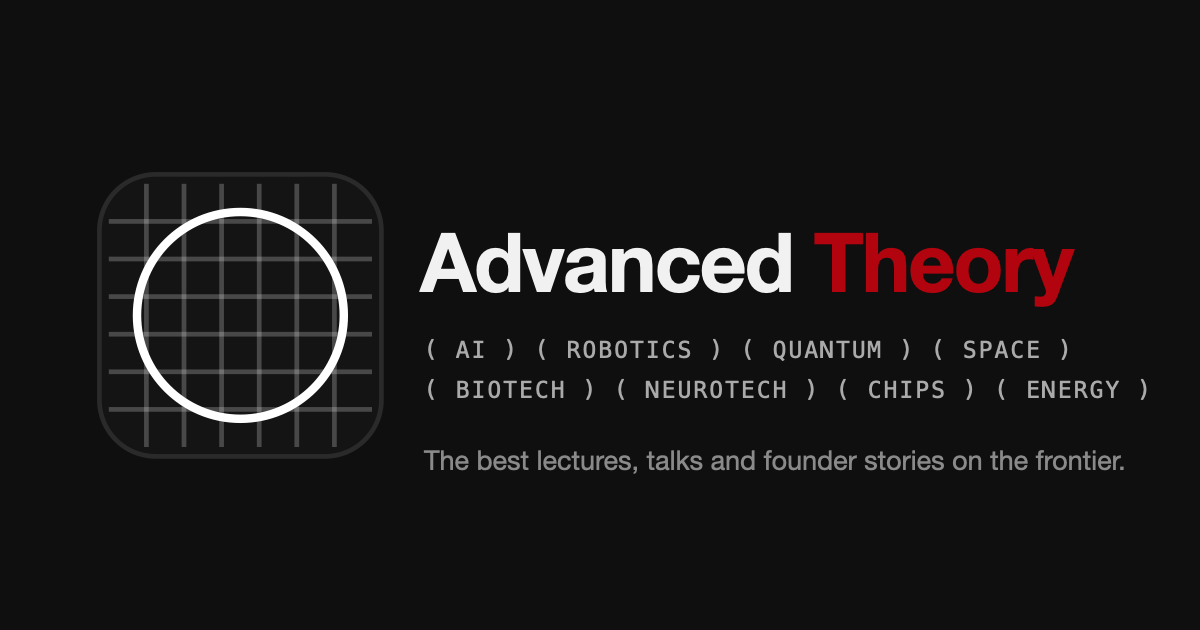
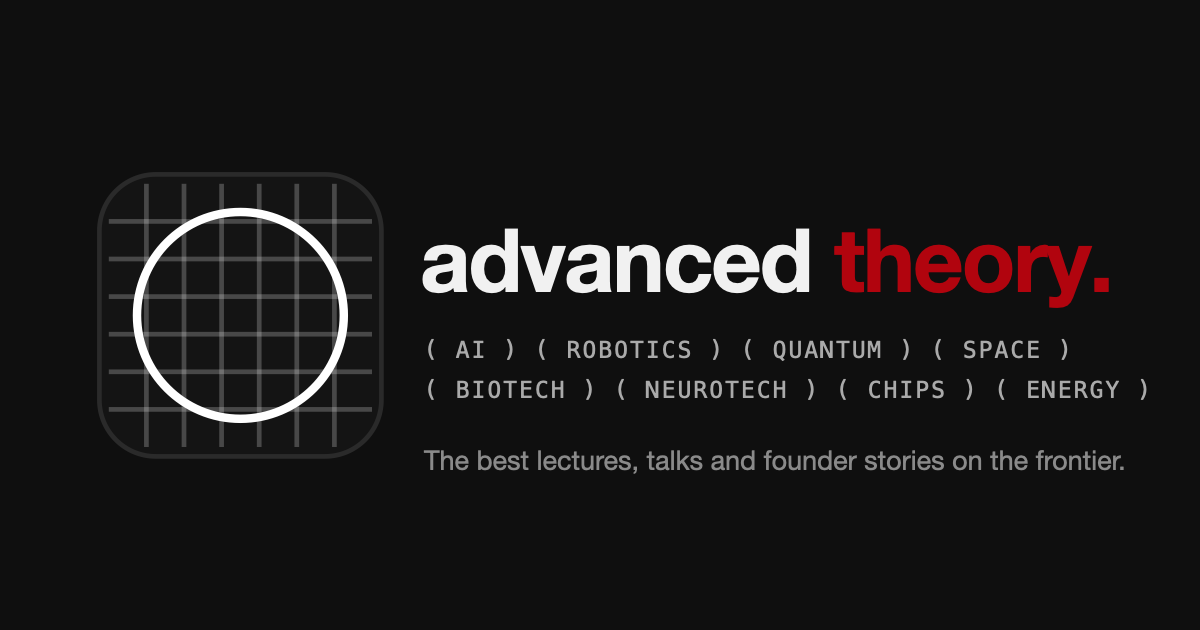
Lowercase wordmark with a trailing dot

Changed region(s): [[0.3392, 0.3619, 0.925, 0.5127]]

diff --git a/js/app.js b/js/app.js
@@ -460,7 +460,7 @@
       <div class="tv-player"><div id="tv-player"></div></div>
       <div class="tv-overlay">
         <div class="tv-top">
-          <a class="tv-brand" href="#/" title="Back to the home page"><svg viewBox="0 0 32 32" width="28" height="28" aria-hidden="true"><rect x="1" y="1" width="30" height="30" rx="6" fill="#141414" stroke="#2a2a2a"/><g stroke="#ffffff" stroke-opacity=".22" stroke-width=".8" fill="none"><path d="M6 2v28" /><path d="M10 2v28" /><path d="M14 2v28" /><path d="M18 2v28" /><path d="M22 2v28" /><path d="M26 2v28" /><path d="M2 6h28" /><path d="M2 10h28" /><path d="M2 14h28" /><path d="M2 18h28" /><path d="M2 22h28" /><path d="M2 26h28" /></g><g stroke="#ffffff" stroke-width="1.1" fill="none" stroke-linecap="round"><circle cx="16" cy="16" r="11"/></g></svg> Advanced Theory</a>
+          <a class="tv-brand" href="#/" title="Back to the home page"><svg viewBox="0 0 32 32" width="28" height="28" aria-hidden="true"><rect x="1" y="1" width="30" height="30" rx="6" fill="#141414" stroke="#2a2a2a"/><g stroke="#ffffff" stroke-opacity=".22" stroke-width=".8" fill="none"><path d="M6 2v28" /><path d="M10 2v28" /><path d="M14 2v28" /><path d="M18 2v28" /><path d="M22 2v28" /><path d="M26 2v28" /><path d="M2 6h28" /><path d="M2 10h28" /><path d="M2 14h28" /><path d="M2 18h28" /><path d="M2 22h28" /><path d="M2 26h28" /></g><g stroke="#ffffff" stroke-width="1.1" fill="none" stroke-linecap="round"><circle cx="16" cy="16" r="11"/></g></svg> advanced <span class="brand-tv">theory.</span></a>
           <div class="tv-pl">${chip('all', 'Everything', DATA.videos.length)}${DATA.directions.map((d) => chip(d.slug, d.label, d.count)).join('')}</div>
           <button class="tv-btn" data-tv="exit" title="Exit TV mode (Esc)">${svg('M19 6.4L17.6 5 12 10.6 6.4 5 5 6.4l5.6 5.6L5 17.6 6.4 19l5.6-5.6 5.6 5.6 1.4-1.4-5.6-5.6z', 20)}</button>
         </div>

diff --git a/index.html b/index.html
@@ -66,7 +66,7 @@
     </button>
     <a class="brand" href="#/" aria-label="Advanced Theory home">
       <span class="brand-mark"><svg viewBox="0 0 32 32" width="30" height="30" aria-hidden="true"><rect x="1" y="1" width="30" height="30" rx="6" fill="#141414" stroke="#2a2a2a"/><g stroke="#ffffff" stroke-opacity=".22" stroke-width=".8" fill="none"><path d="M6 2v28" /><path d="M10 2v28" /><path d="M14 2v28" /><path d="M18 2v28" /><path d="M22 2v28" /><path d="M26 2v28" /><path d="M2 6h28" /><path d="M2 10h28" /><path d="M2 14h28" /><path d="M2 18h28" /><path d="M2 22h28" /><path d="M2 26h28" /></g><g stroke="#ffffff" stroke-width="1.1" fill="none" stroke-linecap="round"><circle cx="16" cy="16" r="11"/></g></svg></span>
-      <span class="brand-text">Advanced <span class="brand-tv">Theory</span></span>
+      <span class="brand-text">advanced <span class="brand-tv">theory.</span></span>
     </a>
   </div>
   <form class="search" id="search-form" role="search">

diff --git a/css/styles.css b/css/styles.css
@@ -287,6 +287,7 @@ body.tv-on .topbar, body.tv-on .layout { display: none; }
 .tv .tv-btn:hover, .tv .tv-btn:focus-visible { background: rgba(255,255,255,.28); outline: none; }
 .tv .tv-btn.primary { background: #fff; color: #000; }
 .tv .tv-brand { font-weight: 700; font-size: 18px; display: flex; align-items: center; gap: 10px; white-space: nowrap; flex: 0 0 auto; color: #fff; padding: 6px 10px 6px 6px; border-radius: 22px; }
+.tv .tv-brand .brand-tv { margin-left: -6px; }
 .tv .tv-brand:hover, .tv .tv-brand:focus-visible { background: rgba(255,255,255,.18); outline: none; }
 .tv .tv-pl { margin-left: auto; display: flex; gap: 8px; overflow-x: auto; scrollbar-width: none; max-width: 70vw; }
 .tv .tv-pl::-webkit-scrollbar { display: none; }
